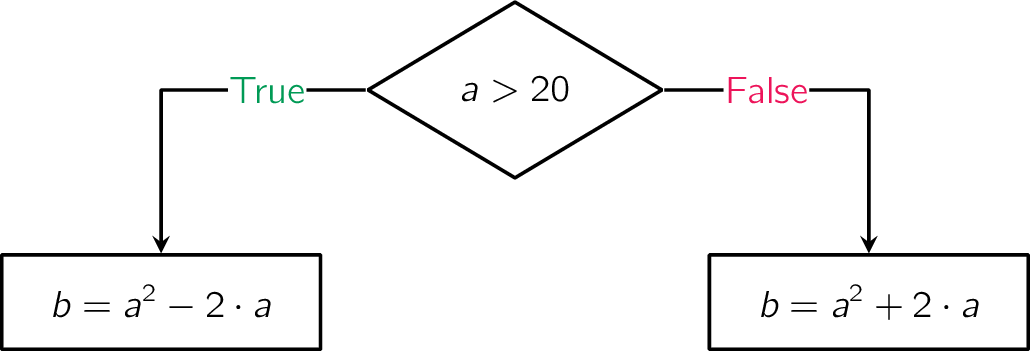
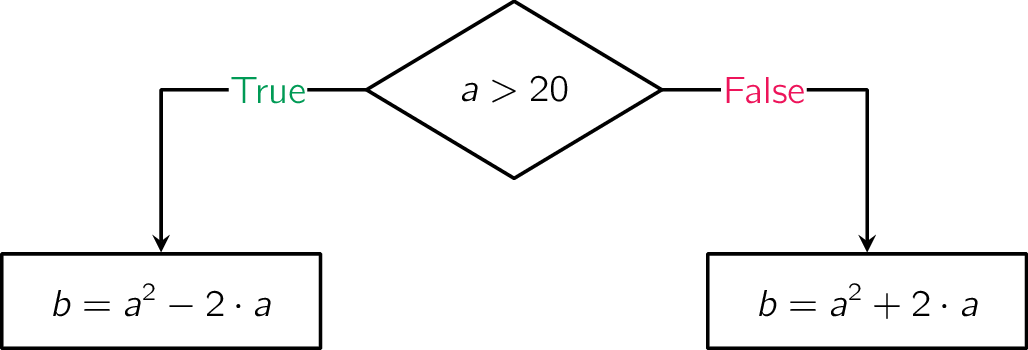
Fixing outer sep TeX image

diff --git a/02 Selectie/2-Werken met IF en ELSE/03 Onbekende A en B/description/media/image.tex b/02 Selectie/2-Werken met IF en ELSE/03 Onbekende A en B/description/media/image.tex
@@ -14,6 +14,7 @@
 			diamond,
 			minimum width=2.5cm,
 			minimum height=1.5cm,
+			outer sep = 0,
 			inner sep=0] (keuze1) {$a > 20$};
 
 		\node[xshift=-0.5cm,
